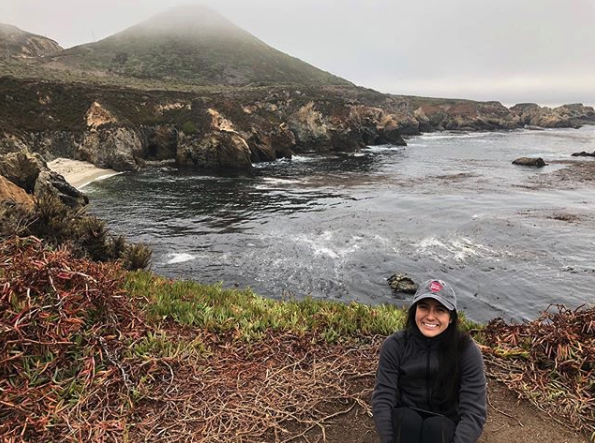
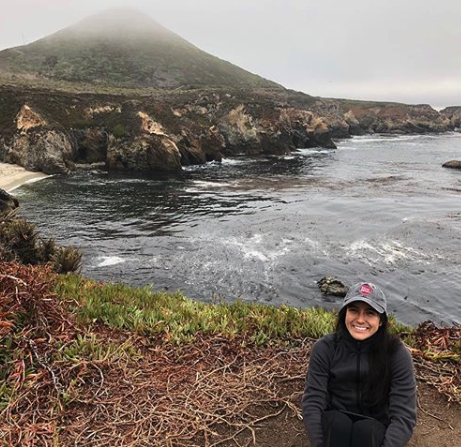
updating index and css files

diff --git a/css/portfolio-item.css b/css/portfolio-item.css
@@ -27,9 +27,15 @@ body {
 }
 
 .figure-img {
-  height: 450px;
-  width: 800px;
   margin-top: 40px;
+  display: block;
+  margin-left: auto;
+  margin-right: auto;
+/*
+  position: absolute;
+  left: 10%
+*/
+/*  margin-left: 40px;*/
 }
 
 .footer {
